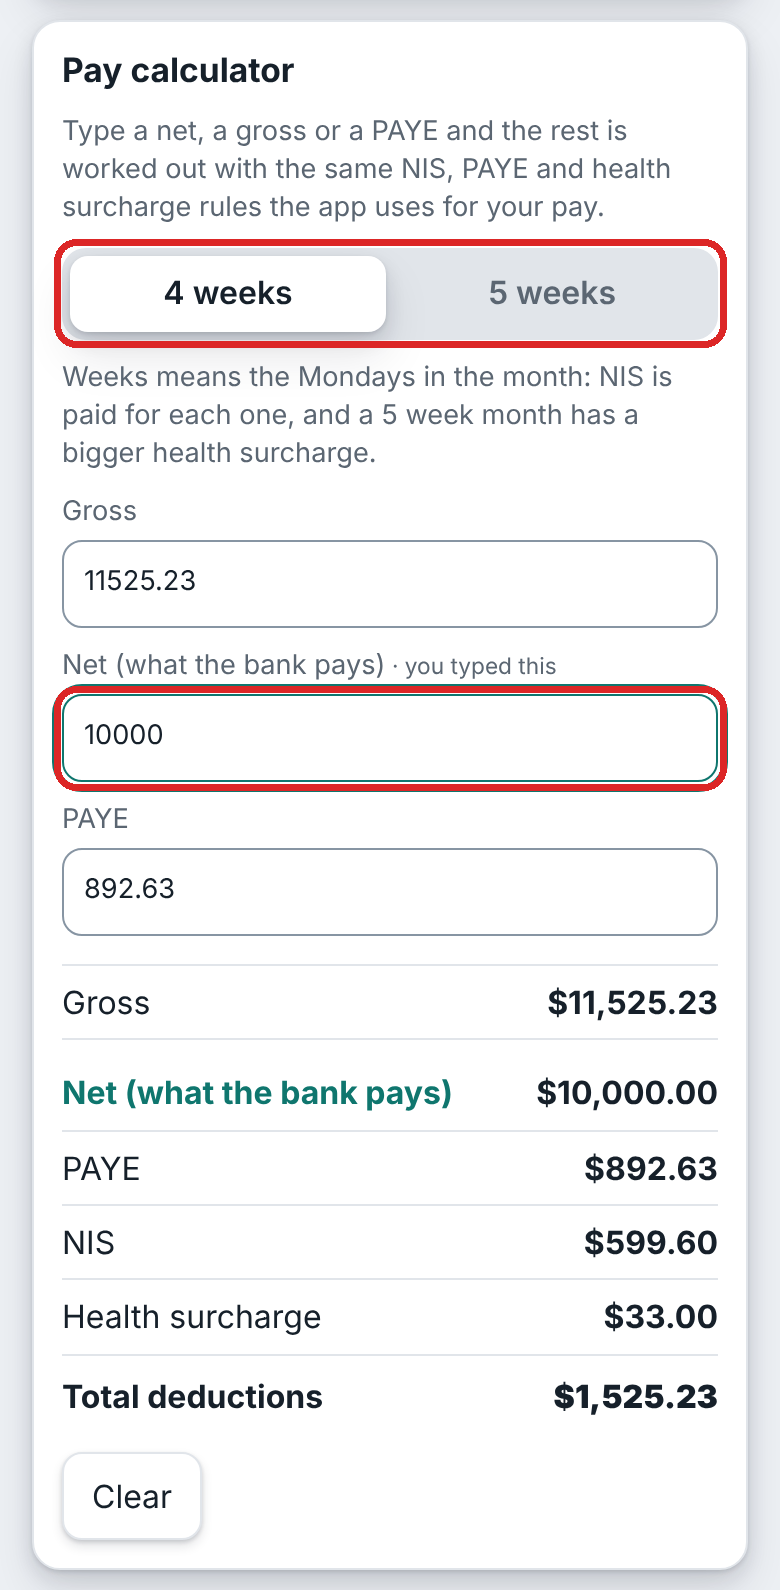
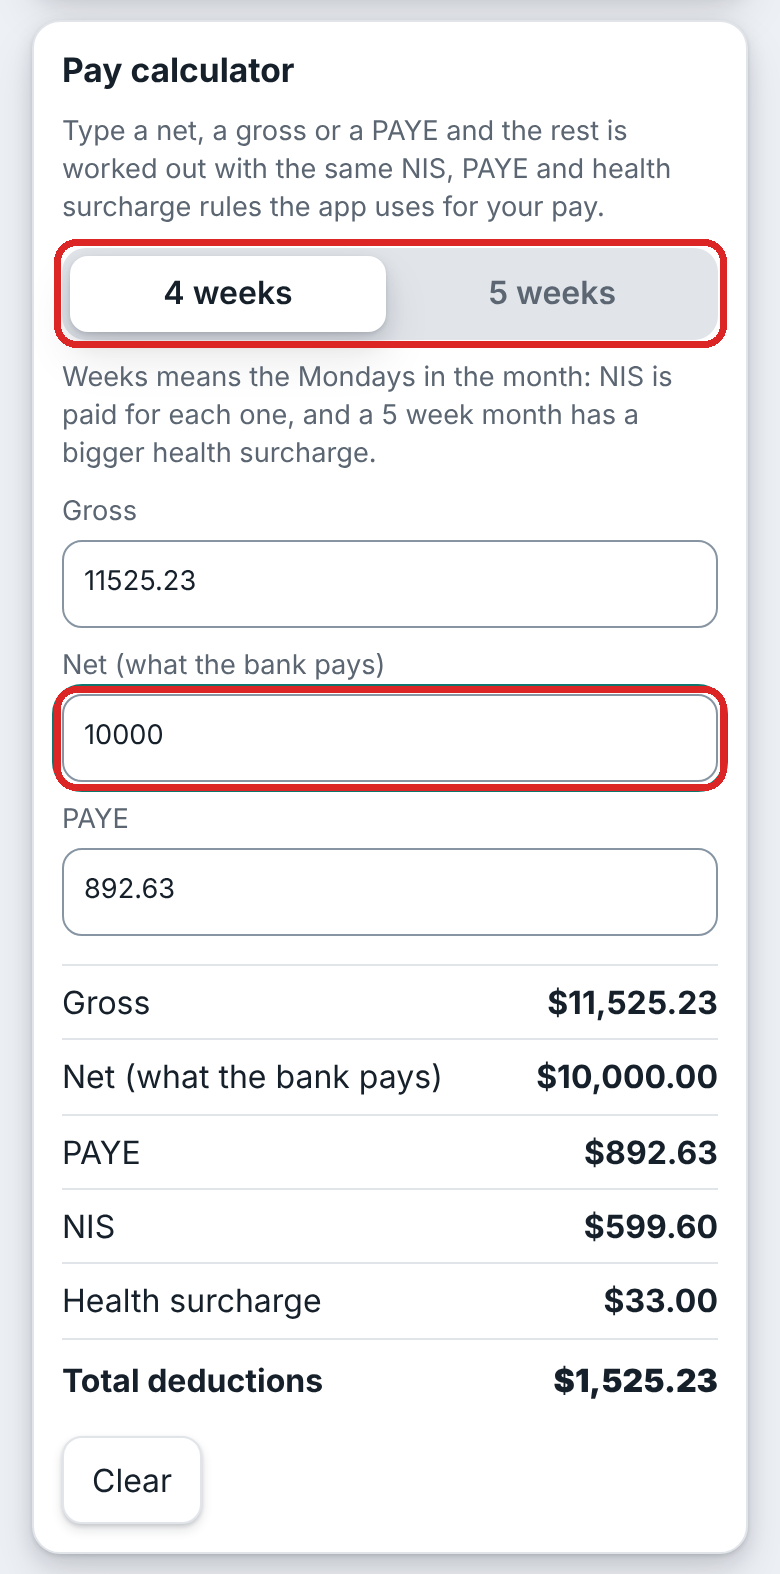
Pay calculator: no 'you typed this' label or highlight, all three boxes look the same; guide text and picture
Claude-Session: https://claude.ai/code/session_015B217MJCLoYGM2HCZFLF5v

diff --git a/src/components/PayCalculator.tsx b/src/components/PayCalculator.tsx
@@ -12,7 +12,7 @@ const BOXES: Array<{ key: Known; label: string }> = [
 
 /**
  * A small calculator at the bottom of Home. Type a net, a gross or a PAYE and the other boxes are filled in with the same formulas the
- * app uses for your pay (NIS by the Mondays in the month, PAYE, the health surcharge). The box you typed in is the one that is kept.
+ * app uses for your pay (NIS by the Mondays in the month, PAYE, the health surcharge). Any of the three boxes can be typed in; all look the same.
  */
 export function PayCalculator({ rules, fiveByDefault }: { rules: TaxRules; fiveByDefault: boolean }) {
   const [five, setFive] = useState(fiveByDefault);
@@ -34,7 +34,7 @@ export function PayCalculator({ rules, fiveByDefault }: { rules: TaxRules; fiveB
       </div>
       <p className="muted small">Weeks means the Mondays in the month: NIS is paid for each one, and a 5 week month has a bigger health surcharge.</p>
       {BOXES.map(({ key, label: l }) => (
-        <label key={key} className={source === key ? "calc-src" : ""}>{l}{source === key && <small className="muted"> · you typed this</small>}
+        <label key={key}>{l}
           <input data-money="" type="number" inputMode="decimal" step="any" min="0" aria-label={l}
             placeholder="0.00"
             value={source === key ? text : solved ? cents(solved.tax[key]) : ""}
@@ -48,8 +48,8 @@ export function PayCalculator({ rules, fiveByDefault }: { rules: TaxRules; fiveB
           ["PAYE", solved?.tax.paye, "paye"],
           ["NIS", solved?.tax.nis, null],
           ["Health surcharge", solved?.tax.surcharge, null],
-        ] as const).map(([name, v, key]) => (
-          <li key={name} className={key !== null && key === source && typed ? "typed" : ""}><span>{name}</span><strong>{v === undefined ? "–" : money(v)}</strong></li>
+        ] as const).map(([name, v]) => (
+          <li key={name}><span>{name}</span><strong>{v === undefined ? "–" : money(v)}</strong></li>
         ))}
         <li className="total"><span>Total deductions</span><strong>{solved ? money(solved.tax.nis + solved.tax.surcharge + solved.tax.paye) : "–"}</strong></li>
       </ul>

diff --git a/src/styles.css b/src/styles.css
@@ -1136,13 +1136,11 @@ html.hide-money .viewer.money-doc canvas { filter: blur(10px); }
 
 /* Pay calculator at the bottom of Home */
 .pay-calc label { display: block; margin-top: 10px; }
-.pay-calc label.calc-src input { border-color: var(--accent); }
 .pay-calc .segmented { margin-top: 6px; }
 .pay-calc .calc-lines { list-style: none; margin: 12px 0 0; padding: 0; border-top: 1px solid var(--line); }
 .pay-calc .calc-lines li { display: flex; justify-content: space-between; gap: 10px; padding: 7px 0; border-bottom: 1px solid var(--line); }
 .pay-calc .calc-lines li.total { border-bottom: 0; font-weight: 700; }
 .pay-calc button:not(.on) { margin-top: 10px; }
 .pay-calc .segmented button { margin-top: 0; }
-.pay-calc .calc-lines li.typed span { font-weight: 700; color: var(--accent); }
 .pay-calc .calc-lines li.total { margin-top: 2px; }
 .pay-calc .calc-lines { margin-top: 14px; }

diff --git a/guide/build_guide.py b/guide/build_guide.py
@@ -197,7 +197,7 @@ s.append(Spacer(1, 3))
 s.append(steps([("<b>The payroll pop-up</b> looks like this. <b>OK, send it now</b> opens the download sheet for that month. <b>Nothing to send</b> stops the reminder for the month, and <b>Later</b> hides it until you next open the app.", A("h-pay"), 50)]))
 s.append(Spacer(1, 3))
 s.append(callout("Payroll reminder: send your time sheet in time", ["Payroll closes on the <b>2nd of the next month</b>, and a time sheet that is not sent in time is not paid. So on the <b>last day of every month</b>, and again on the <b>1st and 2nd</b>, a pop-up appears when you open the app: <b>Send (month) to payroll</b>. Tap <b>OK, send it now</b> and the download sheet for that month opens, where you tap <b>Send to payroll</b> and follow the two steps. When you close the Send to payroll box after saving the time sheet or opening your email app, the app asks <b>Did you send the email to payroll?</b> Tap <b>Yes, sent</b> and it stops reminding you about that month. Tap <b>No, not yet</b> and it asks again next time. If none of your jobs need to be submitted, tap <b>Nothing to send</b> (or just ignore the message). <b>Later</b> hides the pop-up until you next open the app, and a box on Home stays until you answer. It also shows again at <b>8 a.m.</b> on the 1st and 2nd if the app is open then. The app cannot wake your phone by itself: it reminds you when you open it. If payroll closed and the month was never confirmed, Home shows a note once."]))
-s.append(steps([("<b>Pay calculator:</b> at the very bottom of <b>Home</b>. Choose <b>4 weeks</b> or <b>5 weeks</b> (the Mondays in the month: NIS is paid for each Monday, and a 5 week month has a bigger health surcharge; it starts on the one this month has). Then type one figure into <b>Gross</b>, <b>Net (what the bank pays)</b> or <b>PAYE</b>. The other two boxes are filled in with the same NIS, PAYE and health surcharge rules the app uses for your pay. The summary underneath always shows <b>Gross, Net, PAYE, NIS</b> and <b>Health surcharge</b>, and <b>Total deductions</b> (the PAYE, NIS and surcharge added together), and it changes as you type. For example, type a net of 10000 to see which gross you need to take home that much. The box you typed in is marked <b>you typed this</b>; type in another box to start from that figure instead, or tap <b>Clear</b>. If no gross gives exactly that figure, a note says so. It is only a calculator: nothing is saved, and it follows the rules in <b>Settings, NIS &amp; tax</b>.", A("h-calc"), 50)]))
+s.append(steps([("<b>Pay calculator:</b> at the very bottom of <b>Home</b>. Choose <b>4 weeks</b> or <b>5 weeks</b> (the Mondays in the month: NIS is paid for each Monday, and a 5 week month has a bigger health surcharge; it starts on the one this month has). Then type one figure into <b>Gross</b>, <b>Net (what the bank pays)</b> or <b>PAYE</b>. The other two boxes are filled in with the same NIS, PAYE and health surcharge rules the app uses for your pay. The summary underneath always shows <b>Gross, Net, PAYE, NIS</b> and <b>Health surcharge</b>, and <b>Total deductions</b> (the PAYE, NIS and surcharge added together), and it changes as you type. For example, type a net of 10000 to see which gross you need to take home that much. You can type in any of the three boxes; type in another box to start from that figure instead, or tap <b>Clear</b>. If no gross gives exactly that figure, a note says so. It is only a calculator: nothing is saved, and it follows the rules in <b>Settings, NIS &amp; tax</b>.", A("h-calc"), 50)]))
 s.append(Spacer(1, 3))
 s.append(steps([("<b>The backup line</b> at the bottom of <b>Home</b> shows when you last backed up. Tap <b>Back up</b> to open <b>Backup &amp; restore</b>. If your last backup is over six weeks old, or you have two weeks of days and never backed up, the line turns orange and <b>Back up</b> turns green so you do not miss it.", A("h-backup"), 50)]))
 s.append(Spacer(1, 3))
